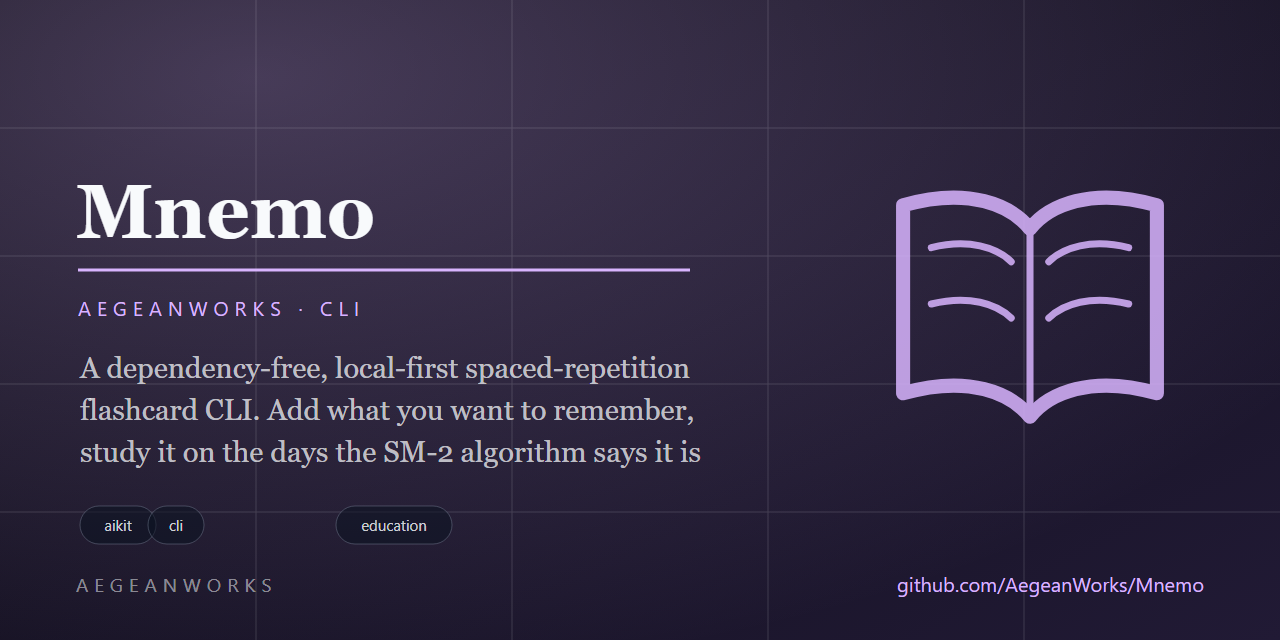
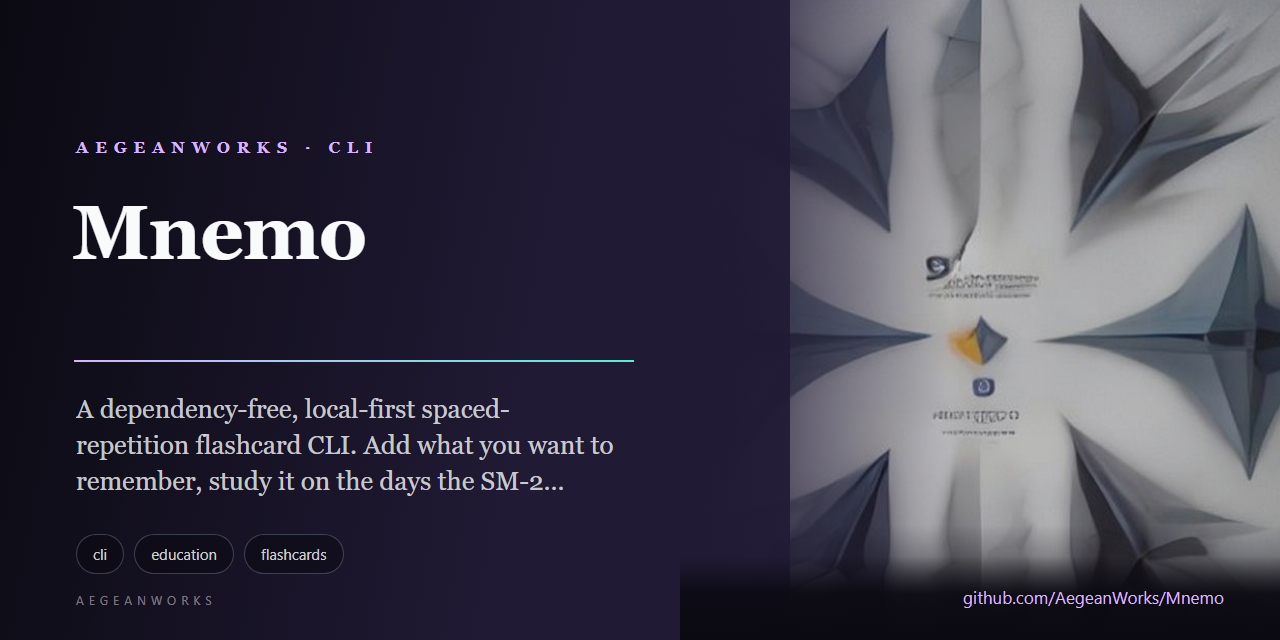
feat(brand): replace procedural marks with reviewed AI-art identities

diff --git a/README.md b/README.md
@@ -1,8 +1,8 @@
 # mnemo
 
 <!-- aegean:media:start -->
-<p align="center"><img src="assets/logo.svg" alt="Mnemo logo" width="96" height="96"></p>
-<p align="center"><img src="assets/social-preview.svg" alt="Mnemo social preview" width="100%"></p>
+<p align="center"><img src="assets/logo.png" alt="Mnemo logo" width="96" height="96"></p>
+<p align="center"><img src="assets/social-preview.png" alt="Mnemo social preview" width="100%"></p>
 <!-- aegean:media:end -->
 
 [![Built with AIKit](https://img.shields.io/badge/built%20with-AIKit-6f42c1)](https://github.com/AegeanWorks/AIKit)
